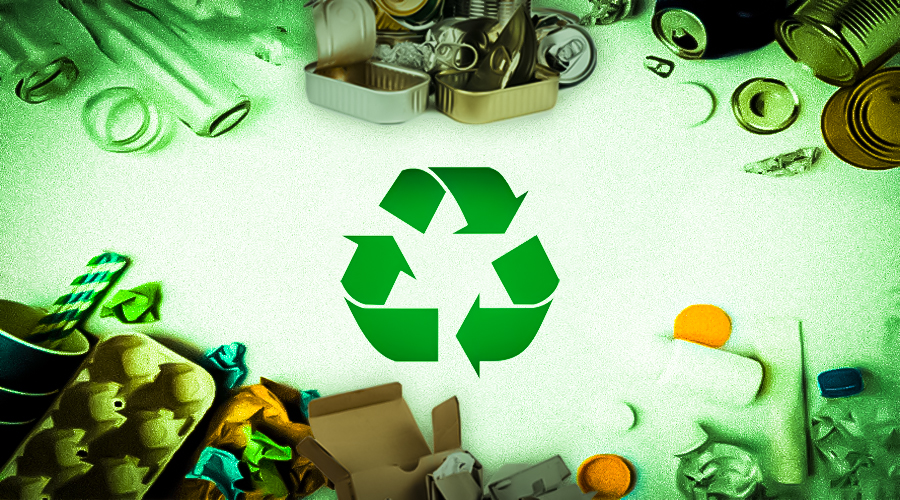
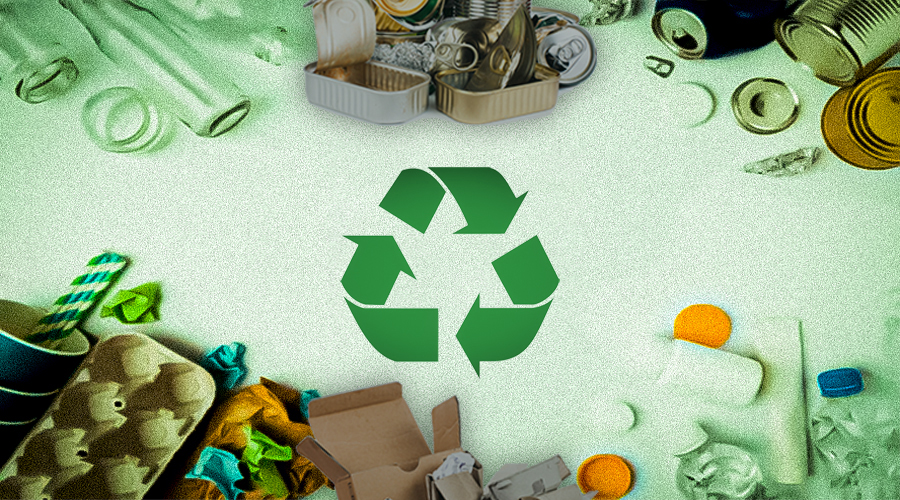
nova

diff --git a/style css/style.css b/style css/style.css
@@ -7,7 +7,7 @@ html {
 .bgimg {
   background-position: center;
   background-size: cover;
-  background-image:url('/assets/Reciclagem.jpg');
+  background-image:url('/assets/Reciclagem copiar.jpg');
   min-height: 100%;
 }
 
